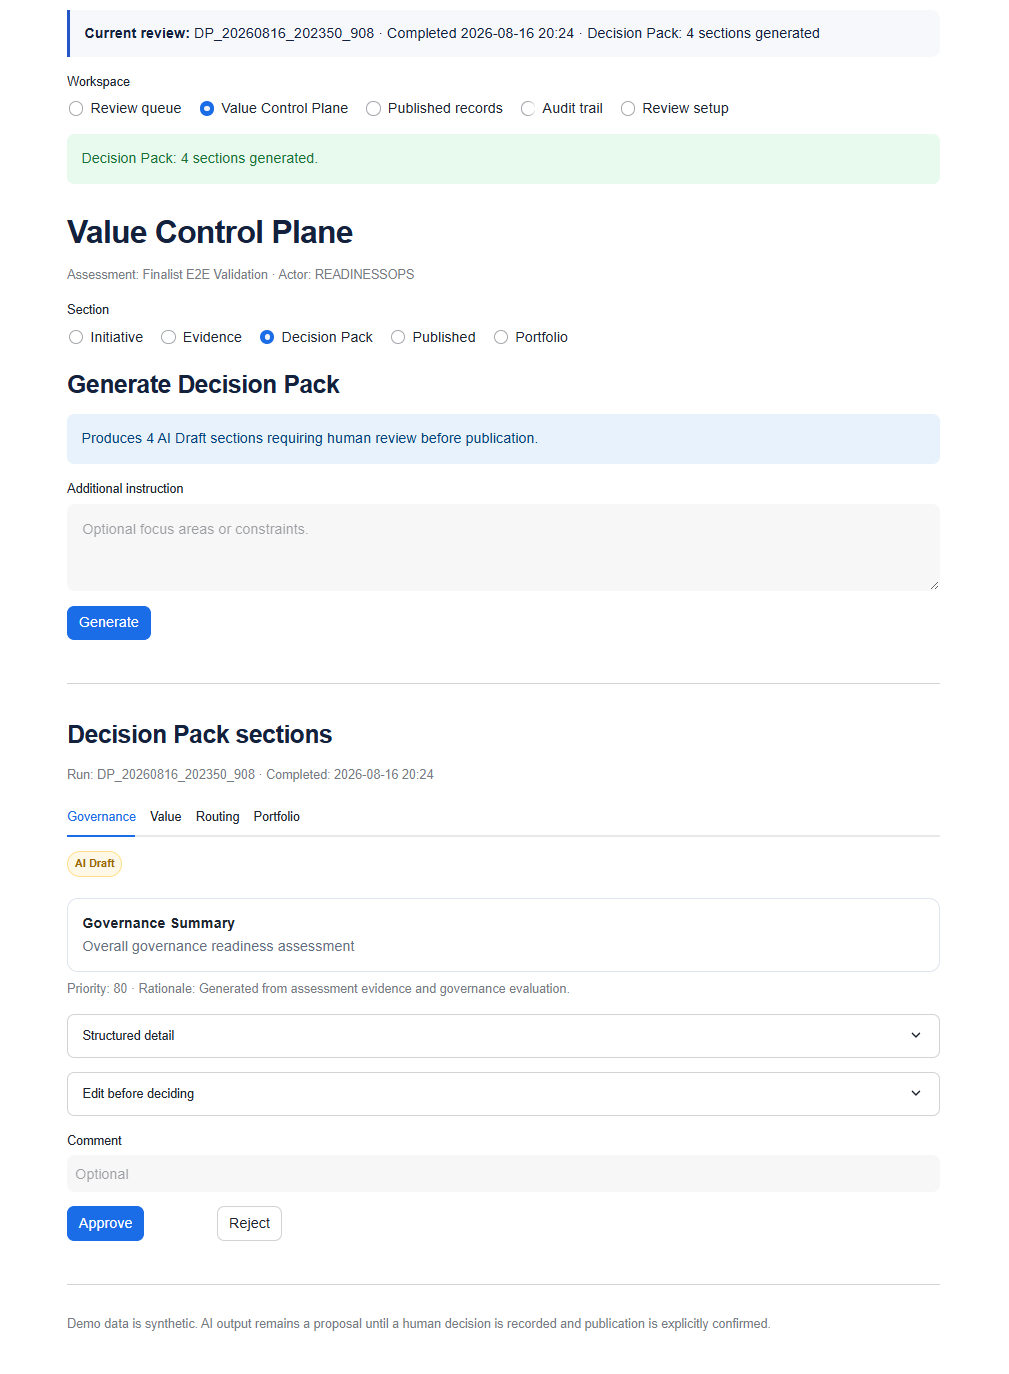
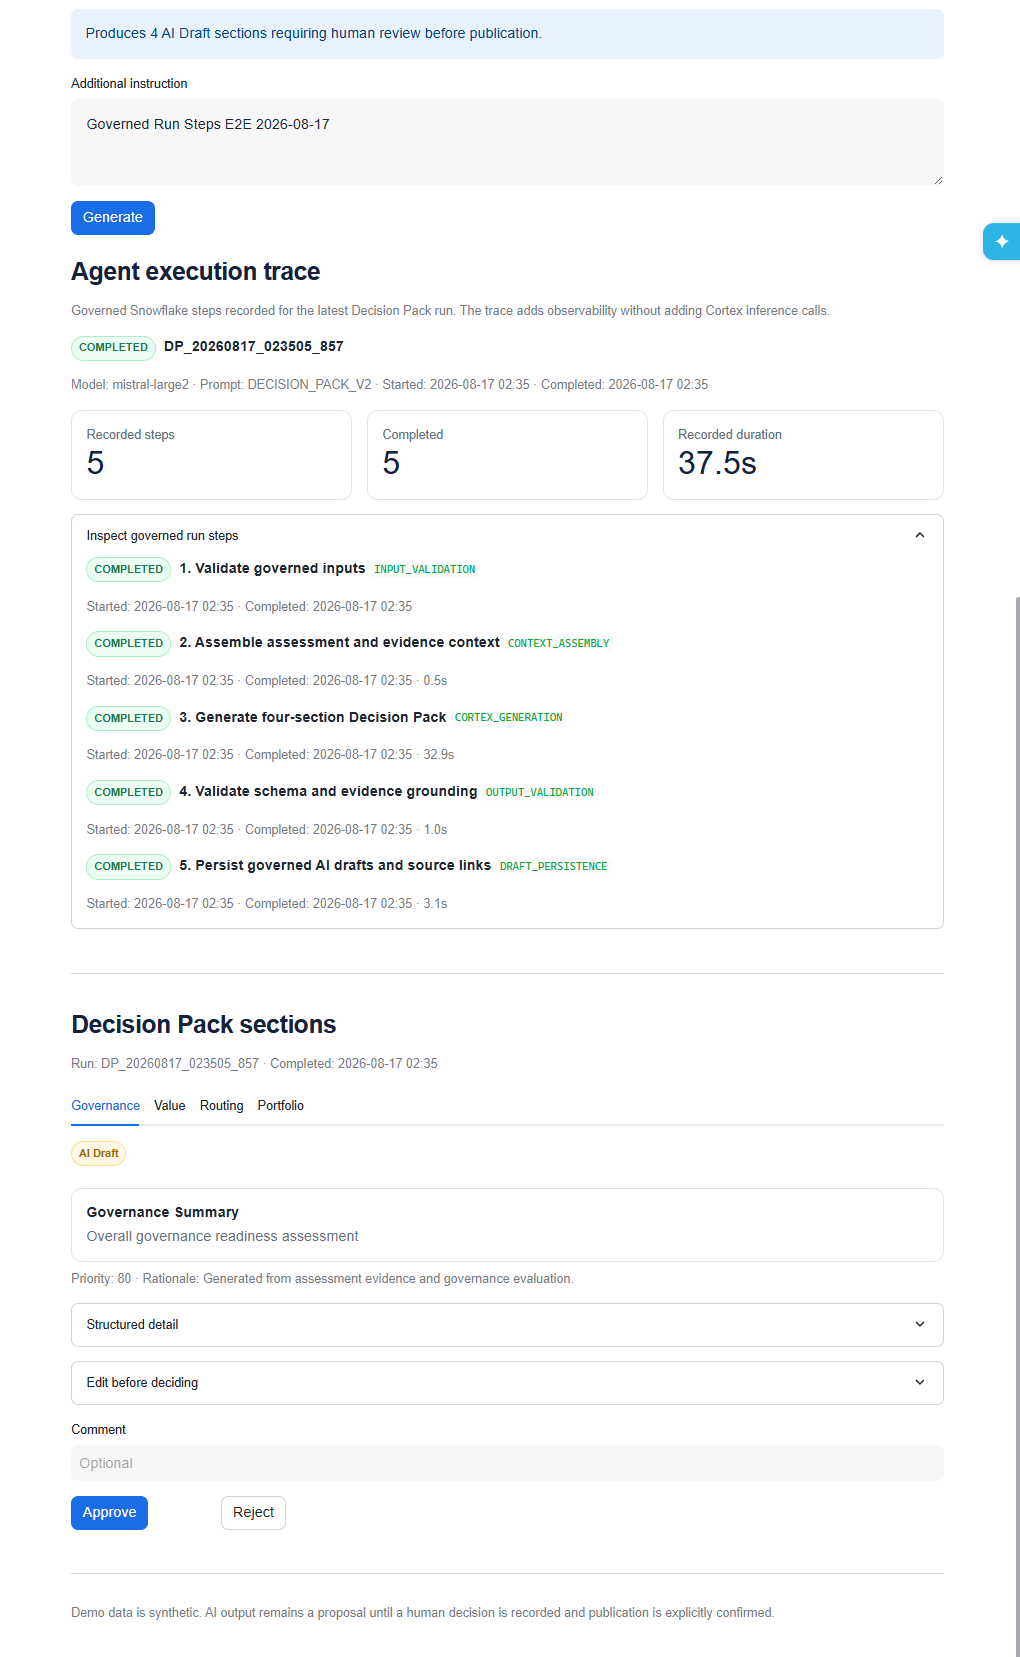
docs: align finalist evidence with governed run steps (#7)

diff --git a/docs/hackathon/FINAL_TEST_REPORT.md b/docs/hackathon/FINAL_TEST_REPORT.md
@@ -25,6 +25,7 @@ Finalist Value Control Plane validation was performed with isolated Assessment R
 | `ASSESSMENT_RUNS.INITIATIVE_ID` | PASS |
 | Extended `EVIDENCE_ITEMS` metadata | PASS |
 | `READINESSOPS_EVIDENCE_STAGE` | PASS |
+| `GOVERNANCE_AGENT_RUN_STEP` | PASS |
 | `GOVERNED_DECISION_RECORD` | PASS |
 | `SP_GENERATE_DECISION_PACK` | PASS |
 | `SP_EDIT_AGENT_PROPOSAL` | PASS |
@@ -65,6 +66,10 @@ Verified PDF example:
 | Evidence IDs belong to selected Run | PASS |
 | Per-section source links | PASS |
 | Draft state starts as `REVIEW_REQUIRED` | PASS |
+| Governed execution steps recorded | 5 |
+| Governed execution steps completed | 5 |
+| Running or failed steps | 0 |
+| Missing step start/end timestamps | 0 |
 
 Validated sections:
 
@@ -109,6 +114,7 @@ Confirmed:
 - Initiative create/select/link: PASS
 - TXT/PDF Evidence list and metadata: PASS
 - Decision Pack generation: PASS
+- five-step Agent execution trace: PASS
 - per-section review and approval: PASS
 - explicit Publish gate: PASS
 - Published Governed Decision Records: PASS
@@ -118,7 +124,7 @@ Confirmed:
 
 ## Acceptance Result
 
-**PASS.** The finalist build completed the isolated path from AI Initiative and retained TXT/PDF evidence through strict Decision Pack generation, human approval, explicit publication, portfolio presentation, and audit history without proposal leakage into `RUN_001`.
+**PASS.** The finalist build completed the isolated path from AI Initiative and retained TXT/PDF evidence through a five-step observable Decision Pack run, strict output validation, human approval, explicit publication, portfolio presentation, and audit history without proposal leakage into `RUN_001`.
 
 ## Operational Note
 

diff --git a/docs/hackathon-submission.md b/docs/hackathon-submission.md
@@ -43,13 +43,23 @@ The existing Gap, Risk, and Action governance workflow remains available and unc
 
 ![Retained TXT and PDF evidence](../assets/screenshots/app_ss_01.png)
 
-### Strict Four-Section Decision Pack
+### Governed Decision Pack Execution
 
-![Strict four-section Decision Pack](../assets/screenshots/app_ss_02.png)
+![Governed five-step Decision Pack execution](../assets/screenshots/app_ss_02.png)
 
 ### Human Decision and Publication Audit
 
 ![Human decision and publication audit history](../assets/screenshots/app_ss_03.png)
+
+## Finalist Feedback Coverage
+
+| Requested refinement | Implemented evidence |
+|---|---|
+| Evaluator login or demo access | Deployed `READINESSOPS_VALIDATION.APP.READINESSOPS_DASHBOARD`, documented demo path, and public reconstruction assets |
+| Dynamic evidence ingestion | TXT/PDF upload, original-file stage retention, SHA-256 metadata, and Cortex PDF parsing |
+| Live CoCo multi-step orchestration | Five persisted Snowflake-native Run Steps expose status, timing, and failure point around the single Cortex generation call |
+| Post-approval operational action loop | Approved proposals require explicit publication and become governed Decision, Gap, Risk, or Action records with portfolio and audit outputs |
+| Inline editing of draft proposals | `Edit before deciding` updates a draft while preserving human decision and publication boundaries |
 
 ## Evaluation Criteria Mapping
 

diff --git a/README.md b/README.md
@@ -55,11 +55,11 @@ The Value Control Plane retains original TXT/PDF files, parses PDF content with 
 
 ![Retained TXT and PDF evidence](assets/screenshots/app_ss_01.png)
 
-### 2. Strict Four-Section Decision Pack
+### 2. Governed Decision Pack Execution
 
-The generated Governance, Value, Model Routing, and Portfolio sections remain AI drafts until a person reviews each section.
+The generated Governance, Value, Model Routing, and Portfolio sections remain AI drafts until a person reviews each section. Five persisted Run Steps make input validation, context assembly, Cortex generation, output validation, and draft persistence inspectable without adding model calls.
 
-![Strict four-section Decision Pack](assets/screenshots/app_ss_02.png)
+![Governed five-step Decision Pack execution](assets/screenshots/app_ss_02.png)
 
 ### 3. Human Decision and Publication Audit
 

diff --git a/docs/demo-guide.md b/docs/demo-guide.md
@@ -61,7 +61,15 @@ Explain:
 
 Open **Decision Pack** and select **Generate**.
 
-Show the completed Agent Run and the four tabs:
+Show the completed Agent Run and its five governed execution steps:
+
+1. Input validation
+2. Context assembly
+3. Cortex generation
+4. Output validation
+5. Draft persistence
+
+Confirm `5 recorded`, `5 completed`, `0 running`, and `0 failed`, then show the four tabs:
 
 1. Governance
 2. Value
@@ -79,6 +87,8 @@ Open one section and show:
 Explain:
 
 > The procedure rejects incomplete output, invalid priorities, or evidence IDs that do not belong to this Assessment Run. Generation creates drafts only.
+
+For recording, run Cortex generation once. Retakes should reuse the completed Agent Run screen rather than create additional runs.
 
 ### 2:05–2:50 — Make accountable decisions
 

diff --git a/docs/hackathon/DEMO_GUIDE_JA.md b/docs/hackathon/DEMO_GUIDE_JA.md
@@ -37,7 +37,15 @@
 
 `Decision Pack`を開き、`Generate`を実行します。
 
-4つのSectionを示します。
+完了したAgent Runで5つのGoverned Run Stepを示します。
+
+1. Input validation
+2. Context assembly
+3. Cortex generation
+4. Output validation
+5. Draft persistence
+
+`5 recorded`、`5 completed`、`0 running`、`0 failed`を確認し、4つのSectionを示します。
 
 1. Governance
 2. Value
@@ -52,6 +60,8 @@
 - Source evidence IDs
 
 > Procedureは4 Sectionの欠落、不正なPriority、選択Runに属さないEvidence IDを拒否します。生成時点ではDraftです。
+
+動画収録でCortex生成を実行するのは1回だけとし、撮り直しでは完了済みAgent Runの画面を再利用します。
 
 ## 2:05–2:50　Human Review
 

diff --git a/docs/hackathon/SUBMISSION_DESCRIPTION_JA.md b/docs/hackathon/SUBMISSION_DESCRIPTION_JA.md
@@ -60,6 +60,7 @@ ReadinessOpsは一度の診断レポートではなく、Evidence、価値、モ
 - TXT Evidenceの検証・原本保持
 - PDF Evidenceの原本保持・Cortex解析
 - 4 Section Decision Pack生成
+- 5段階のGoverned Run Steps（5件記録、5件完了、失敗0件）
 - 4件のHuman Approval
 - 明示的Publishによる4件のGoverned Decision Record
 - 8件のAPPROVE／PUBLISH Audit Event
